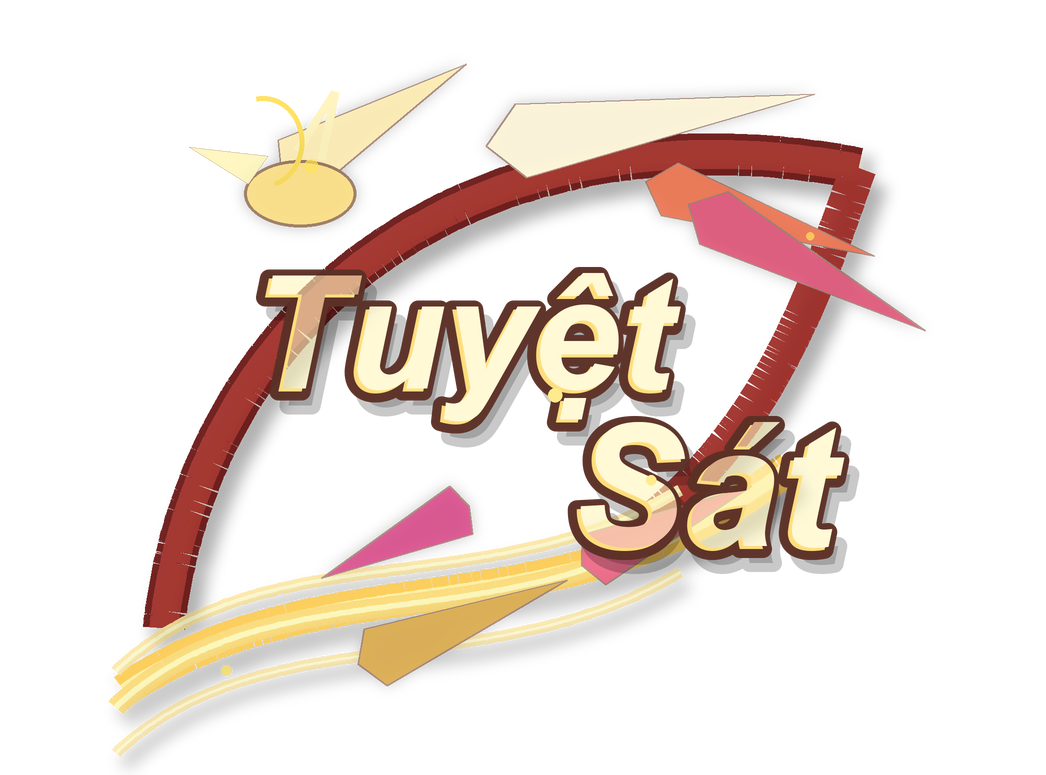
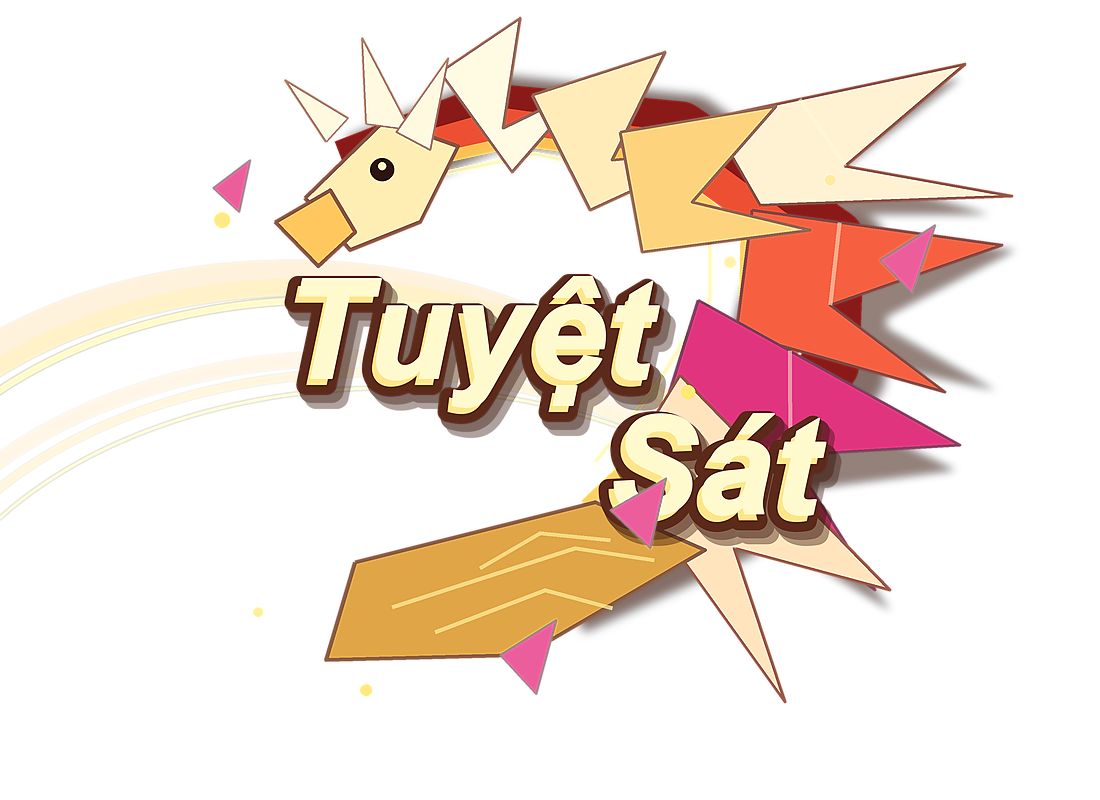
Rebuild clean checkmate burst asset

diff --git a/analysis-app/public/service-worker.js b/analysis-app/public/service-worker.js
@@ -1,12 +1,12 @@
-const CACHE_NAME = "dmaihxcai-shell-v130";
+const CACHE_NAME = "dmaihxcai-shell-v131";
 const STATIC_ASSETS = [
   "/",
   "/index.html",
   "/analysis.html",
-  "/portal.css?v=20260710-room-v65",
-  "/portal.js?v=20260710-room-v91",
-  "/styles.css?v=[phone redacted]-mobile-v64",
-  "/app.js?v=[phone redacted]-mobile-v77",
+  "/portal.css?v=20260710-room-v66",
+  "/portal.js?v=20260710-room-v92",
+  "/styles.css?v=[phone redacted]-mobile-v65",
+  "/app.js?v=[phone redacted]-mobile-v78",
   "/config.js",
   "/xiangqi-core.js",
   "/manifest.webmanifest",

diff --git a/analysis-app/public/portal.js b/analysis-app/public/portal.js
@@ -15,7 +15,7 @@
   const STORAGE_BOARD_SKIN = "dmaihxcai-board-skin";
   const STORAGE_PIECE_SKIN = "dmaihxcai-piece-skin";
   const DEVICE_AVATAR_VERSION = "20260710-v4";
-  const ASSET_WARMUP_VERSION = "20260710-v96";
+  const ASSET_WARMUP_VERSION = "20260710-v97";
   const PORTAL_ASSET_BLOCK_MS = 1800;
   const PORTAL_ASSET_TIMEOUT_MS = 2400;
   const PORTAL_PRELOAD_TEXT = {
@@ -101,8 +101,8 @@
   };
   const ANALYSIS_PRELOAD_ASSETS = [
     "/analysis.html",
-    "/styles.css?v=[phone redacted]-mobile-v64",
-    "/app.js?v=[phone redacted]-mobile-v77",
+    "/styles.css?v=[phone redacted]-mobile-v65",
+    "/app.js?v=[phone redacted]-mobile-v78",
     "/assets/board/board-skin-dark.svg",
     "/assets/board/board-skin-light.svg",
     "/assets/board/board-skin-mobile.svg",

diff --git a/analysis-app/public/analysis.html b/analysis-app/public/analysis.html
@@ -32,7 +32,7 @@
     <link rel="preload" href="/assets/board/board-skin-stone.svg" as="image">
     <link rel="preload" href="/assets/board/board-skin-emerald.svg" as="image">
     <link rel="preload" href="/assets/board/board-skin-wine.svg" as="image">
-    <link rel="stylesheet" href="/styles.css?v=[phone redacted]-mobile-v64">
+    <link rel="stylesheet" href="/styles.css?v=[phone redacted]-mobile-v65">
   </head>
   <body>
     <header class="app-header">
@@ -236,7 +236,7 @@
       </div>
     </div>
     <script src="/config.js"></script>
-    <script src="/app.js?v=[phone redacted]-mobile-v77"></script>
+    <script src="/app.js?v=[phone redacted]-mobile-v78"></script>
     <script>
       const backButton = document.getElementById("backButton");
       if (backButton) {

diff --git a/analysis-app/public/index.html b/analysis-app/public/index.html
@@ -41,7 +41,7 @@
     <link rel="preload" href="/assets/board/board-skin-stone.svg" as="image">
     <link rel="preload" href="/assets/board/board-skin-emerald.svg" as="image">
     <link rel="preload" href="/assets/board/board-skin-wine.svg" as="image">
-    <link rel="stylesheet" href="/portal.css?v=20260710-room-v65">
+    <link rel="stylesheet" href="/portal.css?v=20260710-room-v66">
   </head>
   <body>
     <header class="portal-header">
@@ -578,7 +578,7 @@
     </div>
 
     <script src="/xiangqi-core.js"></script>
-    <script src="/portal.js?v=20260710-room-v91"></script>
+    <script src="/portal.js?v=20260710-room-v92"></script>
     <script>
       if ("serviceWorker" in navigator) {
         window.addEventListener("load", () => {

diff --git a/analysis-app/public/app.js b/analysis-app/public/app.js
@@ -71,7 +71,7 @@ const AUTH_TOKEN_STORAGE_KEY = "license_token";
 const LEGACY_AUTH_TOKEN_STORAGE_KEY = "dmaihxcai-auth-token";
 const AUTH_USER_STORAGE_KEY = "dmaihxcai-auth-user";
 const ANALYSIS_ASSET_WARMUP_KEY = "dmaihxcai-analysis-assets-version";
-const ANALYSIS_ASSET_WARMUP_VERSION = "20260710-v69";
+const ANALYSIS_ASSET_WARMUP_VERSION = "20260710-v70";
 const ANALYSIS_ASSET_BLOCK_MS = 1800;
 const ANALYSIS_ASSET_TIMEOUT_MS = 2400;
 const ANALYSIS_MOVE_ANIMATION_MS = 228;

diff --git a/analysis-app/public/portal.css b/analysis-app/public/portal.css
@@ -929,7 +929,7 @@ a {
   z-index: 7;
   width: 68%;
   max-width: 520px;
-  aspect-ratio: 1046 / 775;
+  aspect-ratio: 1100 / 800;
   transform: translate(-50%, -50%) scale(0.88);
   opacity: 0;
   visibility: hidden;

diff --git a/analysis-app/public/styles.css b/analysis-app/public/styles.css
@@ -385,7 +385,7 @@ h2 {
   z-index: 7;
   width: 68%;
   max-width: 520px;
-  aspect-ratio: 1046 / 775;
+  aspect-ratio: 1100 / 800;
   transform: translate(-50%, -50%) scale(0.88);
   opacity: 0;
   visibility: hidden;